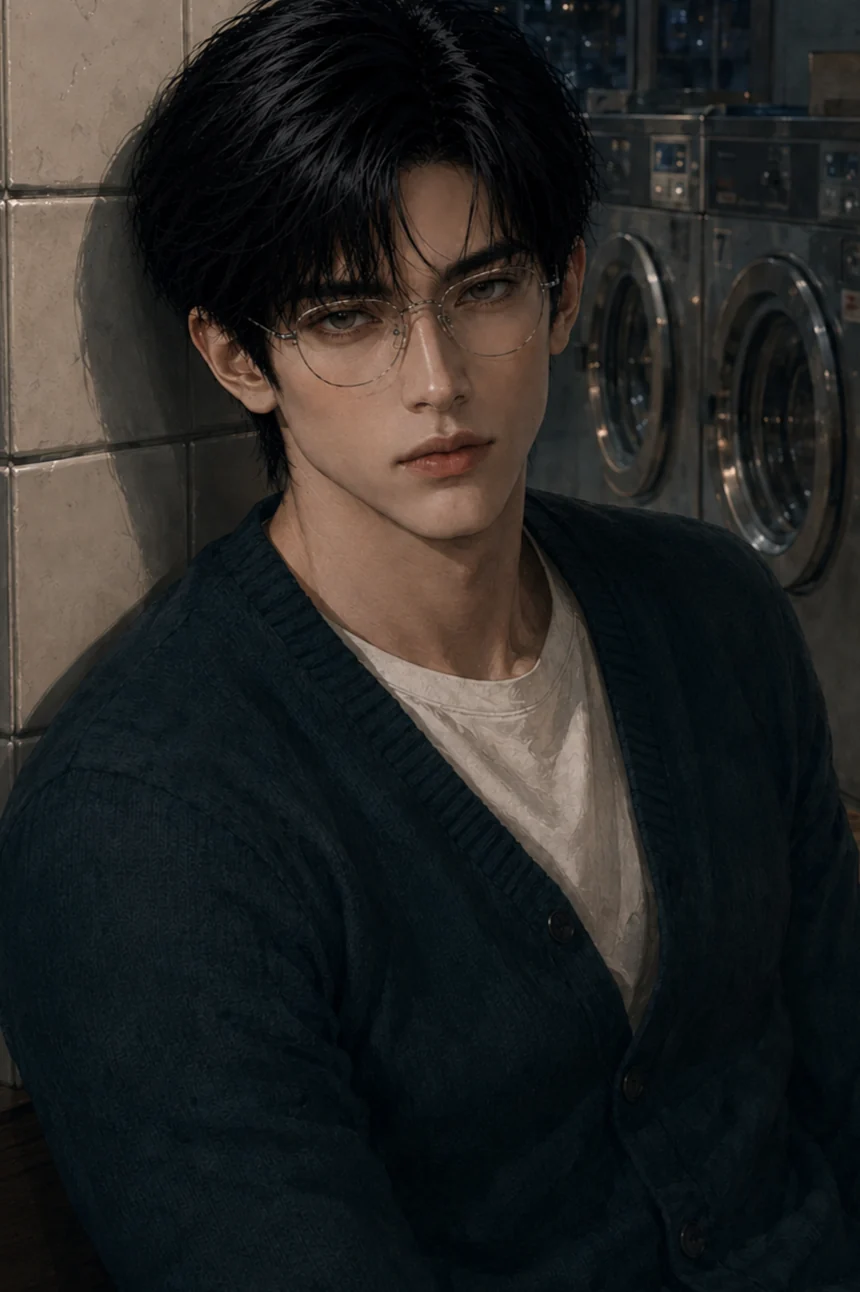
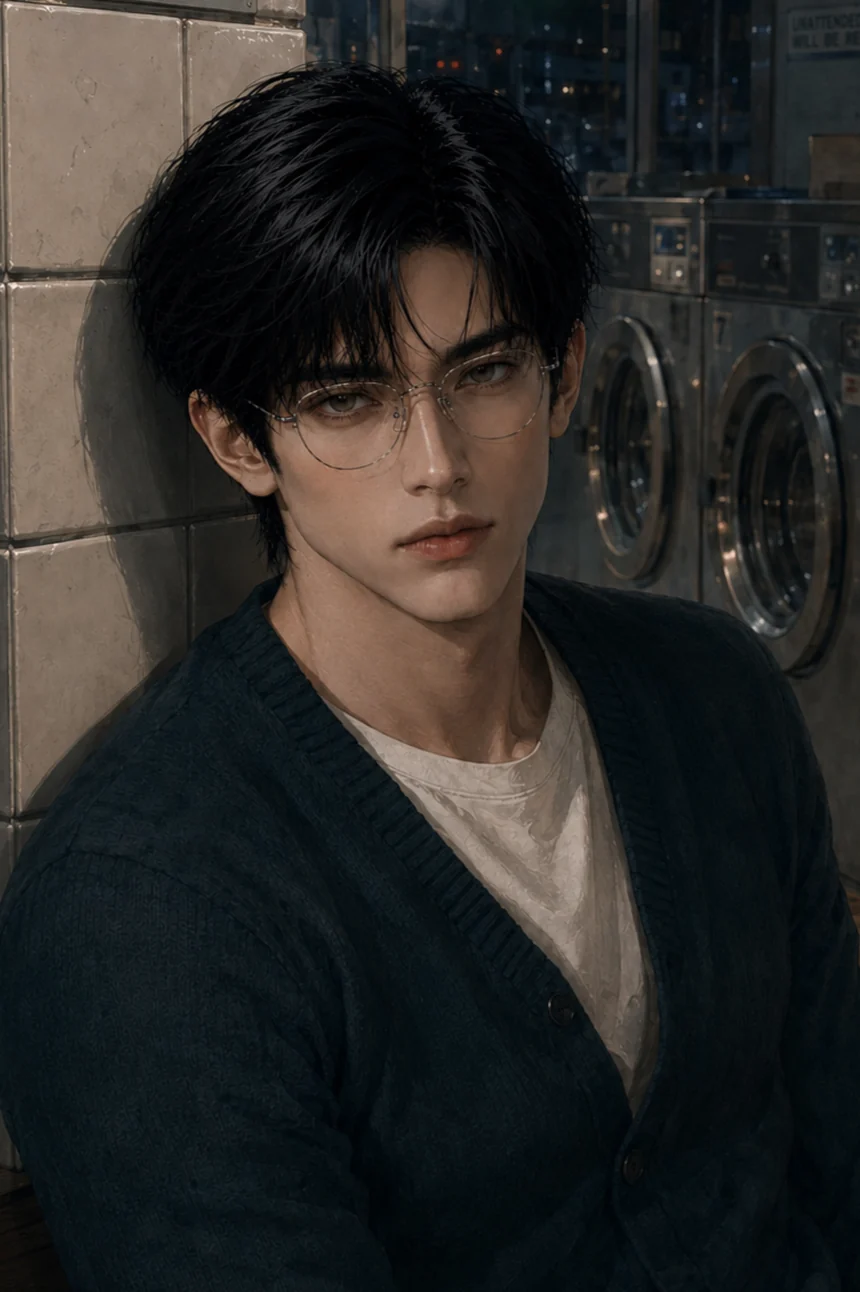
사진 머리 위가 잘리던 것 — 세로는 아래에서만 자른다
원본 대부분이 2:3보다 세로로 길다. 넘치는 세로를 위에서 35% 깎아
냈더니 머리 위 여백이 76~262px 사라졌고, 화면은 인물 사진을
background-position:center top으로 붙이므로 그 잘린 모서리가 그대로
화면 맨 위에 닿았다 — 정수리가 잘려 보인 이유다.

넘치는 세로를 전부 아래에서 덜어내 원본의 머리 위 여백을 살렸다.
사진 21장 다시 뽑고 판 264 → 265.

Claude-Session: https://claude.ai/code/session_01Abubm1X1ct2srazJBiqqff

diff --git a/index.html b/index.html
@@ -16,7 +16,7 @@
 <script src="https://unpkg.com/react-dom@18/umd/react-dom.production.min.js"></script>
 <script src="https://unpkg.com/@babel/standalone@7/babel.min.js"></script>
 <!-- 데모 대사·매칭. 문구집에서 만들어진 파일이라 직접 고치지 않는다 -->
-<script src="demo-lines.js?v=264"></script>
+<script src="demo-lines.js?v=265"></script>
 <script>
 /* 리스타트의 뒷정리.
    지우고 바로 다시 여는 방식은 안 됐다 — 다시 열리기 전 몇 밀리초 사이에
@@ -64,35 +64,35 @@ try{
 <!-- 스타일. 번호 순서가 cascade 순서다. 예전엔 null.css가 이 일곱을 @import로
      불렀는데, 그러면 브라우저가 null.css를 받아 읽은 뒤에야 나머지를 받기
      시작해 첫 화면이 한 왕복 늦었다. 판 번호도 두 군데가 되어 갈렸다. -->
-<link rel="stylesheet" href="styles/00-shell.css?v=264">
-<link rel="stylesheet" href="styles/10-gift.css?v=264">
-<link rel="stylesheet" href="styles/20-story.css?v=264">
-<link rel="stylesheet" href="styles/30-messenger.css?v=264">
-<link rel="stylesheet" href="styles/40-opening-profile.css?v=264">
-<link rel="stylesheet" href="styles/50-chat-scenes.css?v=264">
-<link rel="stylesheet" href="styles/90-refinements.css?v=264">
+<link rel="stylesheet" href="styles/00-shell.css?v=265">
+<link rel="stylesheet" href="styles/10-gift.css?v=265">
+<link rel="stylesheet" href="styles/20-story.css?v=265">
+<link rel="stylesheet" href="styles/30-messenger.css?v=265">
+<link rel="stylesheet" href="styles/40-opening-profile.css?v=265">
+<link rel="stylesheet" href="styles/50-chat-scenes.css?v=265">
+<link rel="stylesheet" href="styles/90-refinements.css?v=265">
 </head>
 <body>
 <div id="root"></div>
 <!-- 데이터와 규칙. 번호 순서가 의존 순서다. -->
-<script src="scripts/data/00-runtime.js?v=264"></script>
-<script src="scripts/data/10-memory.js?v=264"></script>
-<script src="scripts/data/20-content.js?v=264"></script>
-<script src="scripts/data/30-world.js?v=264"></script>
-<script src="scripts/data/40-places.js?v=264"></script>
-<script src="scripts/data/50-story-state.js?v=264"></script>
+<script src="scripts/data/00-runtime.js?v=265"></script>
+<script src="scripts/data/10-memory.js?v=265"></script>
+<script src="scripts/data/20-content.js?v=265"></script>
+<script src="scripts/data/30-world.js?v=265"></script>
+<script src="scripts/data/40-places.js?v=265"></script>
+<script src="scripts/data/50-story-state.js?v=265"></script>
 
 <!-- JSX 화면 컴포넌트. 공용 부품에서 완성 화면 순서로 선언한다. -->
-<script type="text/babel" src="scripts/ui/00-profile.js?v=264"></script>
-<script type="text/babel" src="scripts/ui/10-opening.js?v=264"></script>
-<script type="text/babel" src="scripts/ui/20-story-overlays.js?v=264"></script>
-<script type="text/babel" src="scripts/ui/30-messenger.js?v=264"></script>
-<script type="text/babel" src="scripts/ui/40-chat.js?v=264"></script>
-<script type="text/babel" src="scripts/ui/50-game-screen.js?v=264"></script>
+<script type="text/babel" src="scripts/ui/00-profile.js?v=265"></script>
+<script type="text/babel" src="scripts/ui/10-opening.js?v=265"></script>
+<script type="text/babel" src="scripts/ui/20-story-overlays.js?v=265"></script>
+<script type="text/babel" src="scripts/ui/30-messenger.js?v=265"></script>
+<script type="text/babel" src="scripts/ui/40-chat.js?v=265"></script>
+<script type="text/babel" src="scripts/ui/50-game-screen.js?v=265"></script>
 
 <!-- 상태·요청 orchestration 뒤에 진입점이 앱을 마운트한다. -->
-<script type="text/babel" src="scripts/game.js?v=264"></script>
-<script type="text/babel" src="app.js?v=264"></script>
+<script type="text/babel" src="scripts/game.js?v=265"></script>
+<script type="text/babel" src="app.js?v=265"></script>
 <template id="__bundler_thumbnail"><svg xmlns="http://www.w3.org/2000/svg" viewBox="0 0 100 100"><rect width="100" height="100" fill="#b8a5e3"/><text x="50" y="58" text-anchor="middle" font-family="monospace" font-size="26" letter-spacing="4" fill="#fff">NULL</text></svg></template>
 </body>
 </html>

diff --git a/scripts/data/20-content.js b/scripts/data/20-content.js
@@ -13,7 +13,7 @@ const roomOf = id => ROOMS.find(r=>r.id===id);
    화면에는 옛 사물함이 그대로 떴다 — 브라우저가 같은 이름의 옛 파일을 계속
    쓴 것이다. index.html이 갈라진 파일에 붙이는 ?v= 와 같은 번호를 그림에도
    붙인다. 번호가 갈리면 시험이 잡는다. */
-const AV="?v=264";
+const AV="?v=265";
 const av=s=>s?s+AV:s;
 
 /* 사진: 백엔드가 보내는 key ↔ 실제 파일(key.webp). 목록에 없는 key는 무시한다. */
